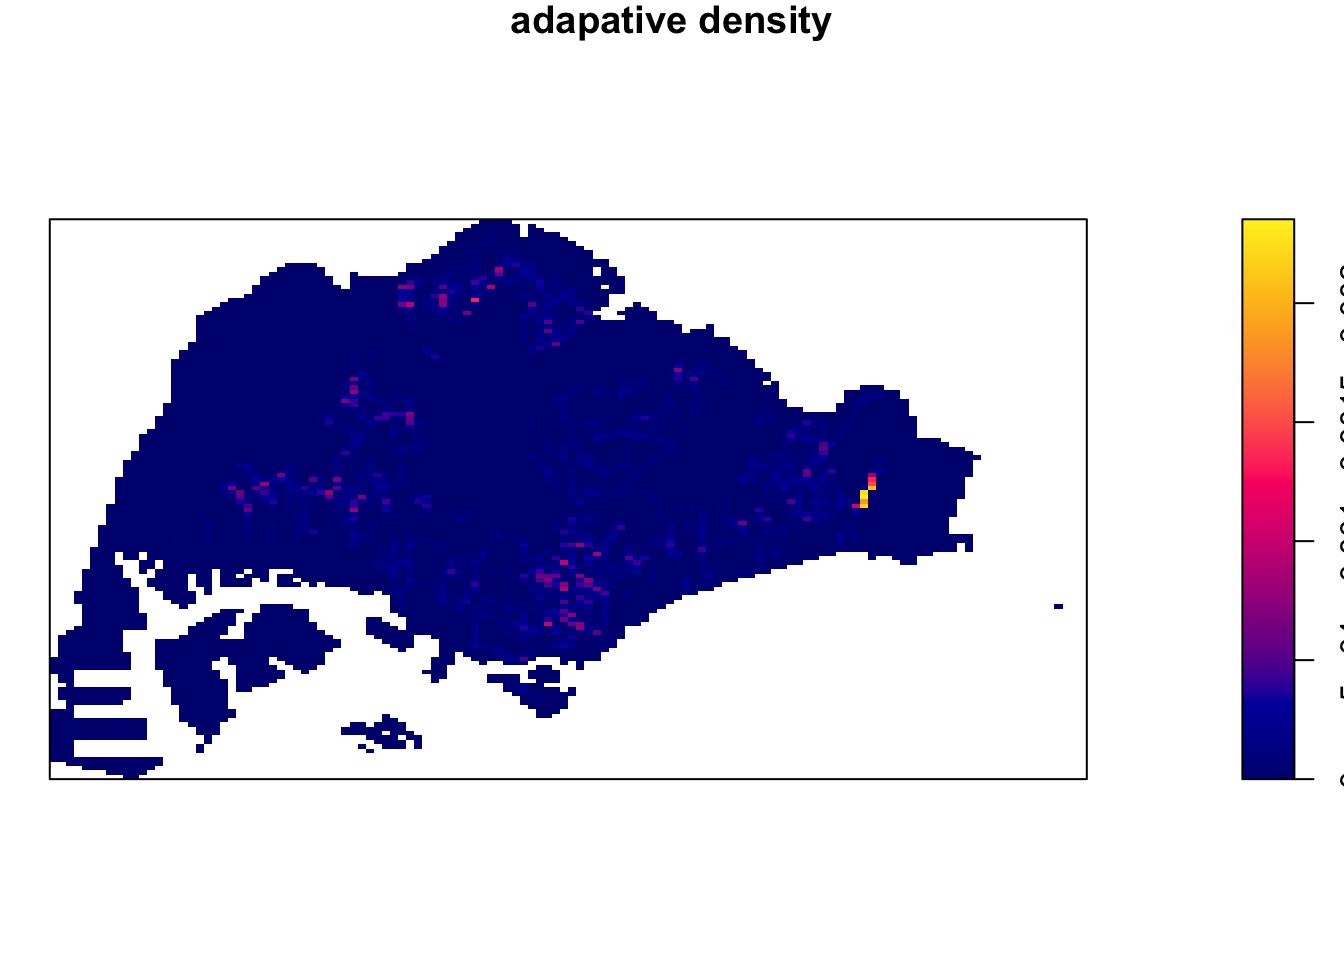
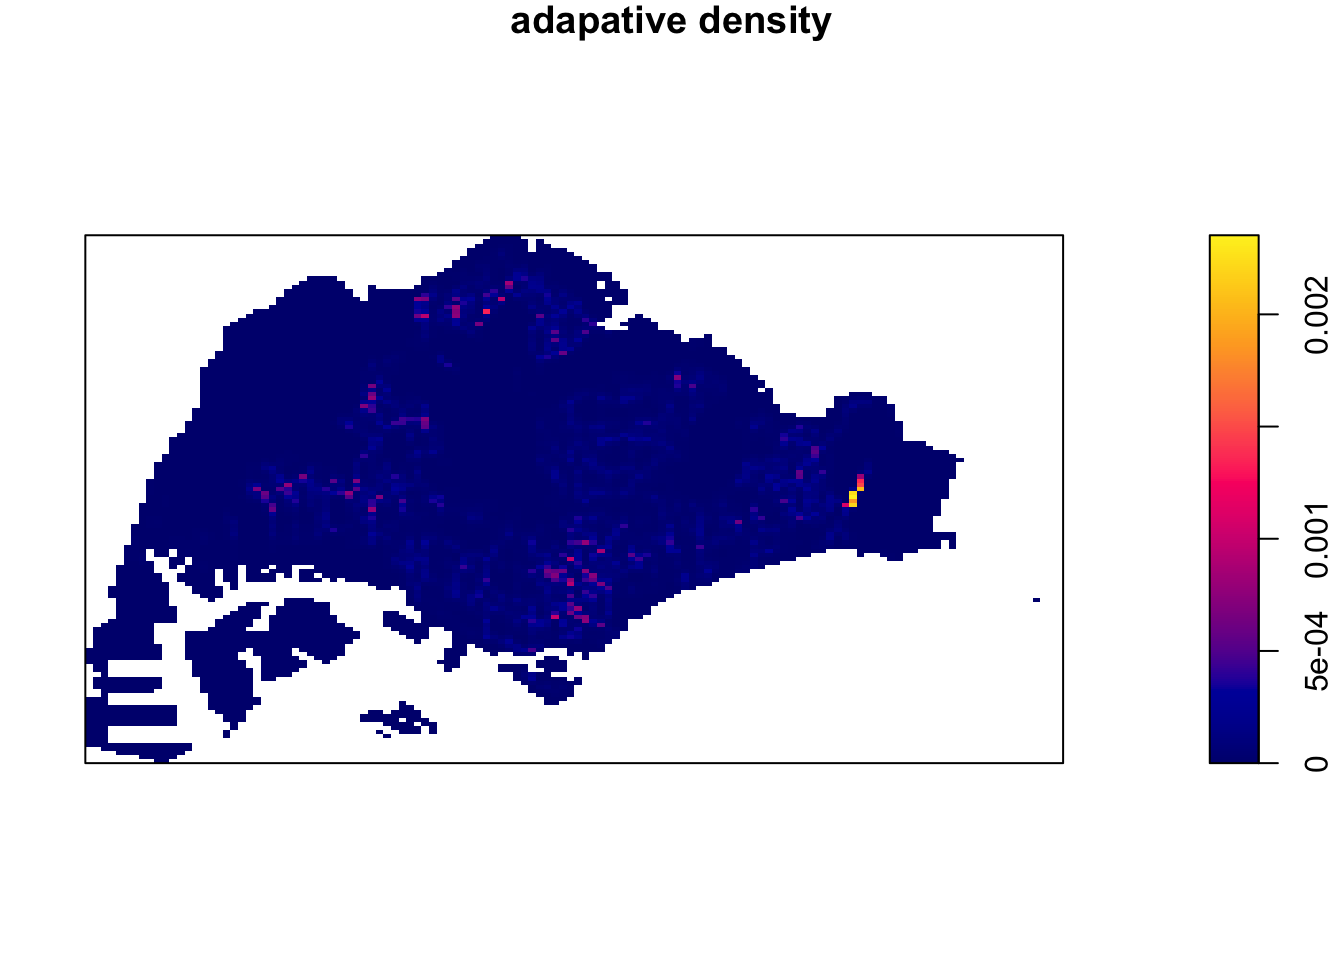
updated take-home ex01

diff --git a/_site/Take-home_Ex/Take-home_Ex01.html b/_site/Take-home_Ex/Take-home_Ex01.html
@@ -129,11 +129,11 @@ pre > code.sourceCode > span > a:first-child::before { text-decoration: underlin
   </li>  
         <li>
     <a class="dropdown-item" href="../In-class_Ex/In-class_Ex03.html" rel="" target="">
- <span class="dropdown-text">In-Class Exercise 02</span></a>
+ <span class="dropdown-text">In-Class Exercise 03</span></a>
   </li>  
         <li>
     <a class="dropdown-item" href="../In-class_Ex/In-class_Ex03-NKDE.html" rel="" target="">
- <span class="dropdown-text">In-Class Exercise 02</span></a>
+ <span class="dropdown-text">In-Class Exercise 03 NKDE</span></a>
   </li>  
     </ul>
   </li>
@@ -167,7 +167,7 @@ pre > code.sourceCode > span > a:first-child::before { text-decoration: underlin
     <ul class="dropdown-menu" aria-labelledby="nav-menu-take-home-exercises">    
         <li>
     <a class="dropdown-item" href="../Take-home_Ex/Take-home_Ex01.html" rel="" target="">
- <span class="dropdown-text">Take-Home Exercise 01: Spatial Point Patterns Analysis of Grab Trajectories in Singapore</span></a>
+ <span class="dropdown-text">Take-home Exercise 1</span></a>
   </li>  
     </ul>
   </li>
@@ -612,7 +612,7 @@ Reflection
 <span id="cb23-9"><a href="#cb23-9" aria-hidden="true" tabindex="-1"></a>            <span class="at">frame =</span> <span class="cn">TRUE</span>) <span class="sc">+</span></span>
 <span id="cb23-10"><a href="#cb23-10" aria-hidden="true" tabindex="-1"></a>  <span class="fu">tm_borders</span>(<span class="at">alpha =</span> <span class="fl">0.5</span>)</span></code><button title="Copy to Clipboard" class="code-copy-button"><i class="bi"></i></button></pre></div>
 <div class="cell-output-display">
-<p><img src="Take-home_Ex01_files/figure-html/unnamed-chunk-20-1.png" class="img-fluid" width="672"></p>
+<p><img src="Take-home_Ex01_files/figure-html/unnamed-chunk-20-1.png" class="img-fluid" width="1440"></p>
 </div>
 </div>
 </section>
@@ -1136,7 +1136,7 @@ Reflection
 <p>To build the KDE layer, a localised density is calculated&nbsp;for multiple&nbsp;small subsets of the observation window. However, these subsets overlap throughout each iteration, resulting in a moving&nbsp;window defined by a kernel (Wilkin, 2020; Gimond, 2023).</p>
 <p>Kernel estimation is implemented in <strong>spatstat</strong> by the function <code>density.ppp()</code>, a method for the generic command density.</p>
 <div class="cell">
-<div class="sourceCode cell-code" id="cb62"><pre class="sourceCode r code-with-copy"><code class="sourceCode r"><span id="cb62-1"><a href="#cb62-1" aria-hidden="true" tabindex="-1"></a><span class="fu">par</span>(<span class="at">mar =</span> <span class="fu">c</span>(<span class="dv">0</span>,<span class="dv">0</span>,<span class="dv">1</span>,<span class="dv">0</span>))</span>
+<div class="sourceCode cell-code" id="cb62"><pre class="sourceCode r code-with-copy"><code class="sourceCode r"><span id="cb62-1"><a href="#cb62-1" aria-hidden="true" tabindex="-1"></a><span class="fu">par</span>(<span class="at">mar =</span> <span class="fu">c</span>(<span class="dv">0</span>,<span class="dv">1</span>,<span class="dv">1</span>,<span class="dv">1</span>))</span>
 <span id="cb62-2"><a href="#cb62-2" aria-hidden="true" tabindex="-1"></a>den <span class="ot">&lt;-</span> <span class="fu">density</span>(origin_ppp_sg)</span>
 <span id="cb62-3"><a href="#cb62-3" aria-hidden="true" tabindex="-1"></a><span class="fu">plot</span>(den,<span class="at">main =</span> <span class="st">"default density"</span>)</span>
 <span id="cb62-4"><a href="#cb62-4" aria-hidden="true" tabindex="-1"></a><span class="fu">contour</span>(den, <span class="at">add=</span><span class="cn">TRUE</span>)</span></code><button title="Copy to Clipboard" class="code-copy-button"><i class="bi"></i></button></pre></div>
@@ -1211,11 +1211,11 @@ Reflection
 <p>A fixed smoothing bandwidth is unsatisfactory if the true intensity varies greatly across the spatial domain, because it is likely to cause over-smoothing in the high-intensity areas and under-smoothing in the low intensity areas (Baddeley et al., 2015)</p>
 <p>The fixed bandwidth method is very sensitive to highly skewed distribution of spatial point patterns over geographical units.</p>
 <div class="cell">
-<div class="sourceCode cell-code" id="cb73"><pre class="sourceCode r code-with-copy"><code class="sourceCode r"><span id="cb73-1"><a href="#cb73-1" aria-hidden="true" tabindex="-1"></a>kde_origin <span class="ot">&lt;-</span> <span class="fu">adaptive.density</span>(origin_ppp_sg, <span class="at">method =</span> <span class="st">"kernel"</span>)</span></code><button title="Copy to Clipboard" class="code-copy-button"><i class="bi"></i></button></pre></div>
+<div class="sourceCode cell-code" id="cb73"><pre class="sourceCode r code-with-copy"><code class="sourceCode r"><span id="cb73-1"><a href="#cb73-1" aria-hidden="true" tabindex="-1"></a>kde_origin_adaptive <span class="ot">&lt;-</span> <span class="fu">adaptive.density</span>(origin_ppp_sg, <span class="at">method =</span> <span class="st">"kernel"</span>)</span></code><button title="Copy to Clipboard" class="code-copy-button"><i class="bi"></i></button></pre></div>
 </div>
 <div class="cell">
-<div class="sourceCode cell-code" id="cb74"><pre class="sourceCode r code-with-copy"><code class="sourceCode r"><span id="cb74-1"><a href="#cb74-1" aria-hidden="true" tabindex="-1"></a><span class="fu">par</span>(<span class="at">mar =</span> <span class="fu">c</span>(<span class="dv">0</span>,<span class="dv">0</span>,<span class="dv">1</span>,<span class="dv">0</span>))</span>
-<span id="cb74-2"><a href="#cb74-2" aria-hidden="true" tabindex="-1"></a><span class="fu">plot</span>(kde_origin,<span class="at">main =</span> <span class="st">"adapative density"</span>)</span></code><button title="Copy to Clipboard" class="code-copy-button"><i class="bi"></i></button></pre></div>
+<div class="sourceCode cell-code" id="cb74"><pre class="sourceCode r code-with-copy"><code class="sourceCode r"><span id="cb74-1"><a href="#cb74-1" aria-hidden="true" tabindex="-1"></a><span class="fu">par</span>(<span class="at">mar =</span> <span class="fu">c</span>(<span class="dv">0</span>,<span class="dv">1</span>,<span class="dv">1</span>,<span class="dv">1</span>))</span>
+<span id="cb74-2"><a href="#cb74-2" aria-hidden="true" tabindex="-1"></a><span class="fu">plot</span>(kde_origin_adaptive,<span class="at">main =</span> <span class="st">"adapative density"</span>)</span></code><button title="Copy to Clipboard" class="code-copy-button"><i class="bi"></i></button></pre></div>
 <div class="cell-output-display">
 <p><img src="Take-home_Ex01_files/figure-html/unnamed-chunk-46-1.png" class="img-fluid" width="672"></p>
 </div>
